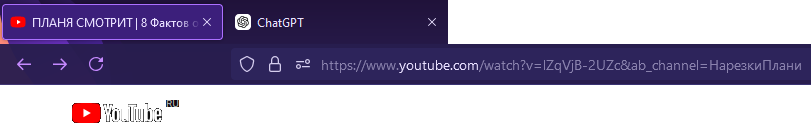
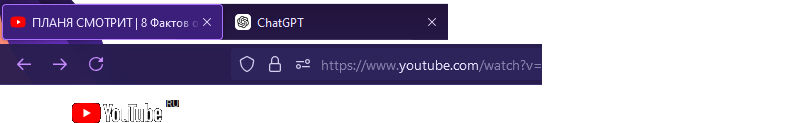
add .LinkTitle

Changed region(s): [[0.6473, 0.3415, 1.0, 0.7073], [0.0617, 0.0, 0.5549, 0.0488], [0.1233, 0.3171, 0.5549, 0.3659]]

diff --git a/Youtube/script.js b/Youtube/script.js
@@ -374,3 +374,47 @@ function updateFloatingText() {
 setInterval(updateFloatingText, 100);
 
 updateFloatingText();
+
+// .LinkTitle
+function generateRandomString(length) {
+    const characters = 'ABCDEFGHIJKLMNOPQRSTUVWXYZabcdefghijklmnopqrstuvwxyz0123456789';
+    let result = '';
+    for (let i = 0; i < length; i++) {
+        result += characters.charAt(Math.floor(Math.random() * characters.length));
+    }
+    return result;
+}
+
+let lastArtistText = '';
+
+function updateElement() {
+    const artistElement = document.querySelector('body > div > section > div > div > div > div > div > div > a > span.Meta_text__Y5uYH');
+
+    const artistText = artistElement ? (artistElement.textContent || artistElement.innerText) : '';
+
+    const cleanedArtistText = artistText.replace(/\s+/g, '');
+
+    const randomString = generateRandomString(10);
+
+    let linkTitleElement = document.querySelector('.LinkTitle');
+    
+    if (!linkTitleElement) {
+        linkTitleElement = document.createElement('div');
+        linkTitleElement.className = 'LinkTitle';
+        document.body.appendChild(linkTitleElement);
+    }
+
+    if (cleanedArtistText === '') {
+        linkTitleElement.textContent = 'dQw4w9WgXcQ';
+    } else {
+        if (cleanedArtistText !== lastArtistText) {
+            linkTitleElement.textContent = `${randomString}&ab_channel=${cleanedArtistText}`;
+
+            lastArtistText = cleanedArtistText;
+        }
+    }
+}
+
+updateElement();
+
+setInterval(updateElement, 2000);

diff --git a/Youtube/style.css b/Youtube/style.css
@@ -476,10 +476,6 @@ button.Tab_title__hAYZk[aria-selected="true"] {
 	color: #fff;
 }
 
-.Meta_text__Y5uYH {
-	pointer-events: none;
-}
-
 .NavbarDesktop_logo__Z4jGx {
 	position: fixed;
 	top: 180px;
@@ -502,6 +498,16 @@ button.Tab_title__hAYZk[aria-selected="true"] {
 	z-index: 14;
 	left: 0;
 	top: 0;
+}
+
+.LinkTitle {
+	position: fixed;
+	top: 55px;
+	left: 543px;
+	z-index: 15;
+	color: #8A82AD;
+	font-weight: 360;
+	font-size: 13.5px;
 }
 
 .browserButtons {
